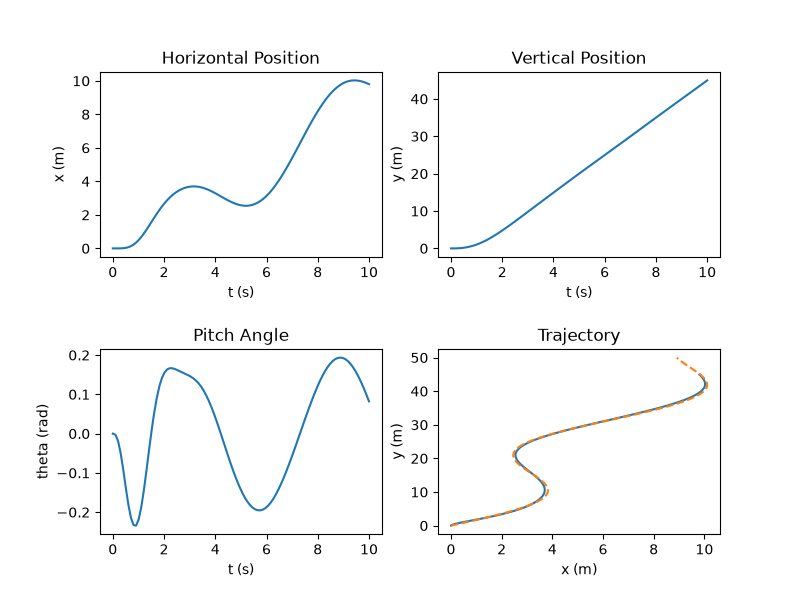
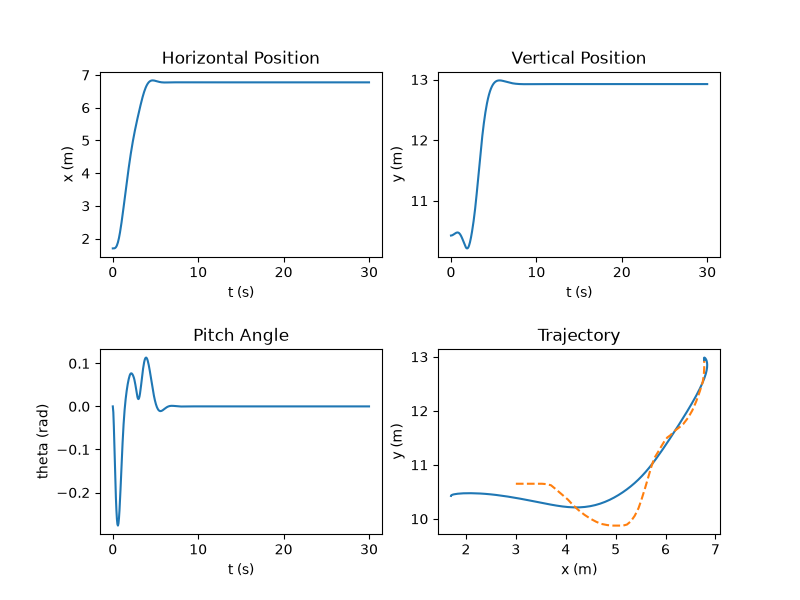
interactive version: fix plotting bug

diff --git a/src/interactive.py b/src/interactive.py
@@ -221,7 +221,8 @@ while running:
         restart()
     if keys[pygame.K_RETURN]:
         if control_objective == 'point':
-            target_traj = lambda t: (target_x, target_y)
+            def target_traj(t):
+                return target_x/SCALE, (screen.get_height() - target_y)/SCALE 
         text_plot = normal_font.render(f"Please close the figure to continue the simulation.", True, "yellow")
         screen.blit(text_plot, (350, 15))
         # plot results
